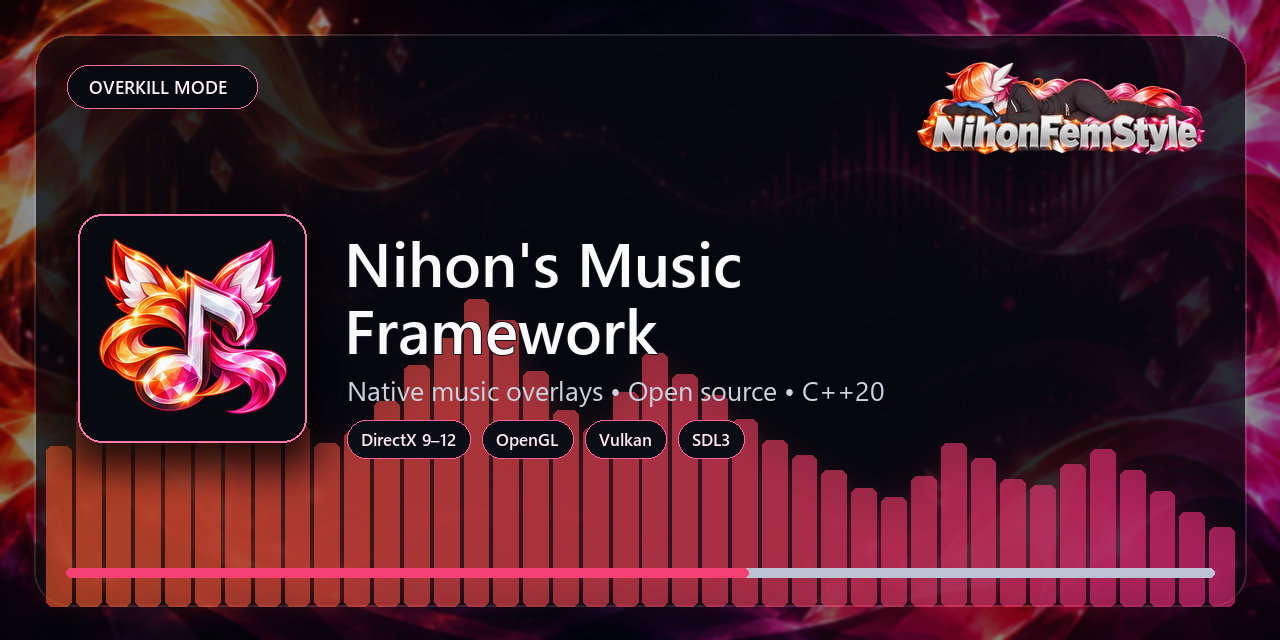
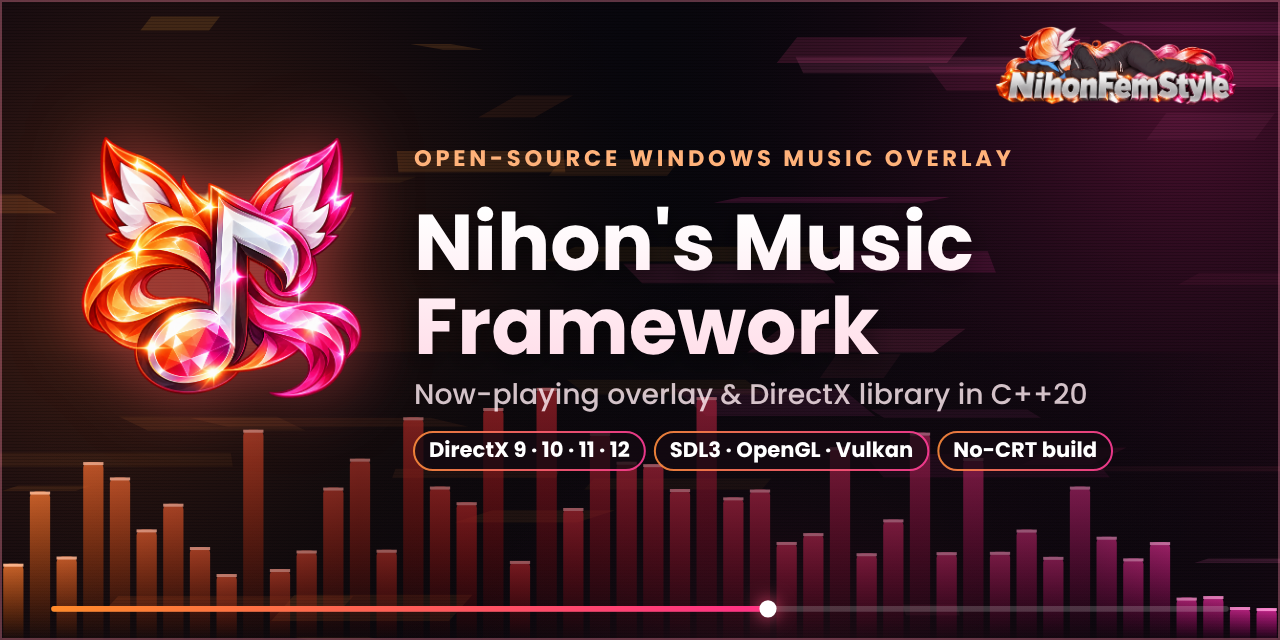
readme edits

diff --git a/README.md b/README.md
@@ -1,4 +1,4 @@
-<p align="center"><img src="assets/banner.png" alt="Nihon's Music Framework" width="760"></p>
+<p align="center"><img src="assets/readme-banner.png" alt="Nihon's Music Framework: open-source Windows music overlay" width="900"></p>
 
 <h1 align="center">Nihon's Music Framework</h1>
 
@@ -59,6 +59,13 @@ Nihon's Music Framework reads the active Windows media session, renders a native
   </tr>
   <tr>
     <td colspan="2" align="center"><strong>Overkill — custom font and artwork spectrum</strong><br><img src="docs/images/overkill-custom-font.png" alt="Overkill mode using a custom installed font and artwork spectrum"></td>
+  </tr>
+  <tr>
+    <td colspan="2" align="center"><strong>Settings window — General</strong> <sub>(design preview)</sub><br><img src="docs/images/settings-general.png" alt="CSLA-inspired settings window, General page, with the Dynamic Accent row focused" width="660"></td>
+  </tr>
+  <tr>
+    <td align="center"><strong>Settings window — Overkill</strong> <sub>(design preview)</sub><br><img src="docs/images/settings-overkill.png" alt="Settings window, Overkill page, with every spectrum choice listed inline" width="420"></td>
+    <td align="center"><strong>Settings window — Discord RPC</strong> <sub>(design preview)</sub><br><img src="docs/images/settings-discord.png" alt="Settings window, Discord RPC page, editing the application ID" width="420"></td>
   </tr>
 </table>
 
